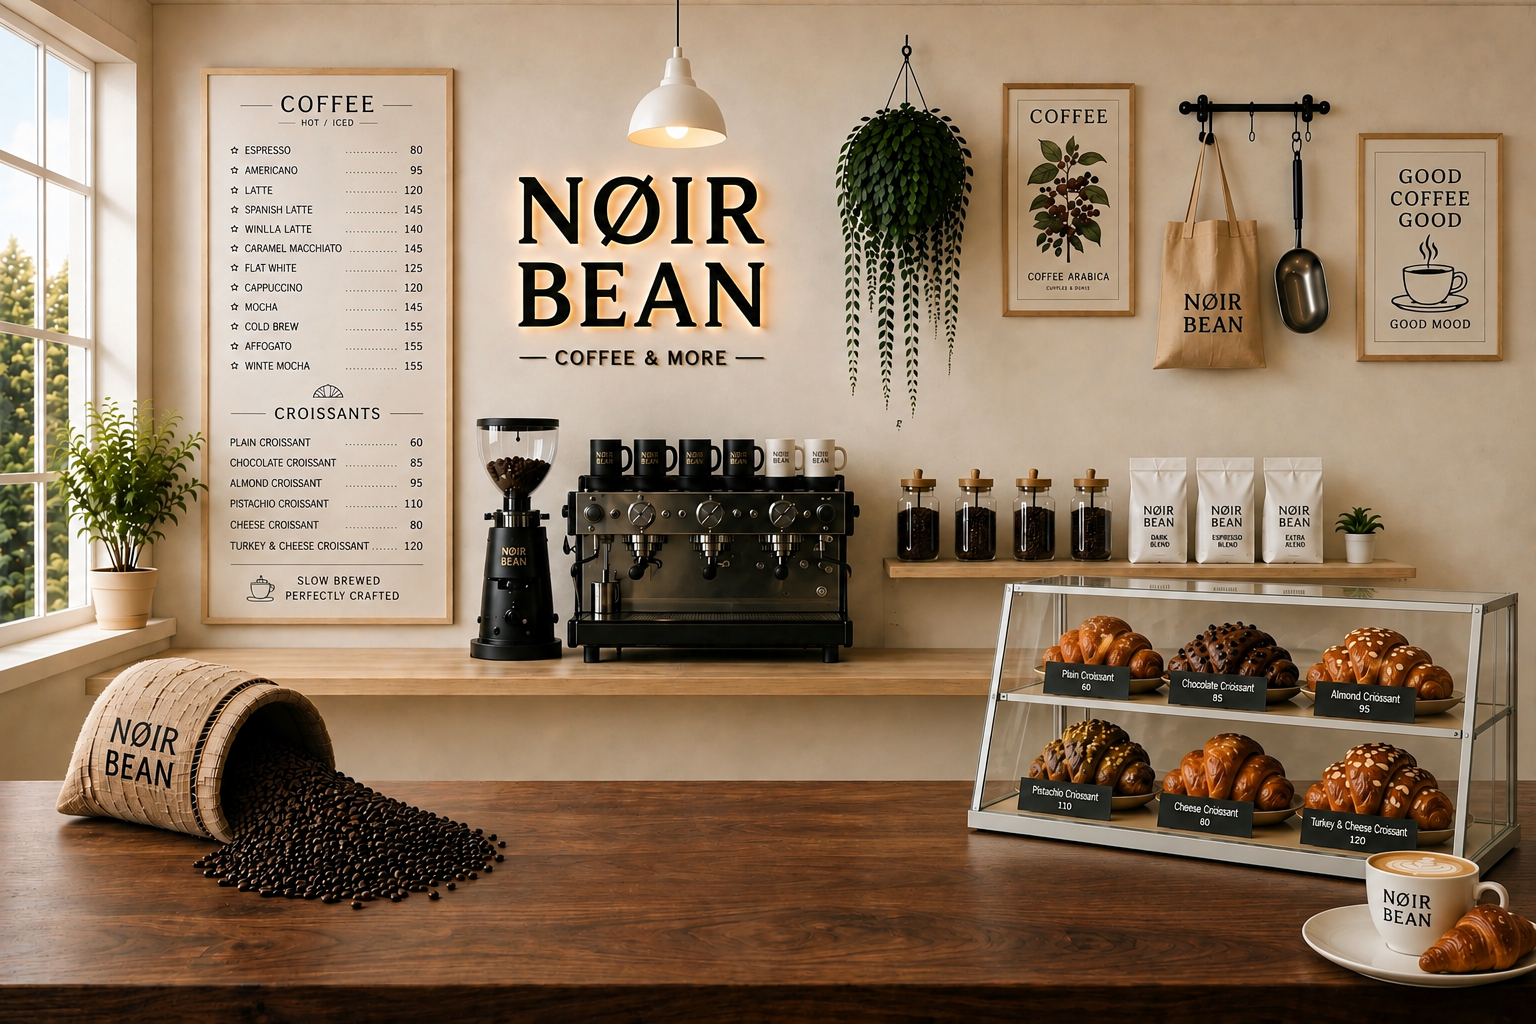
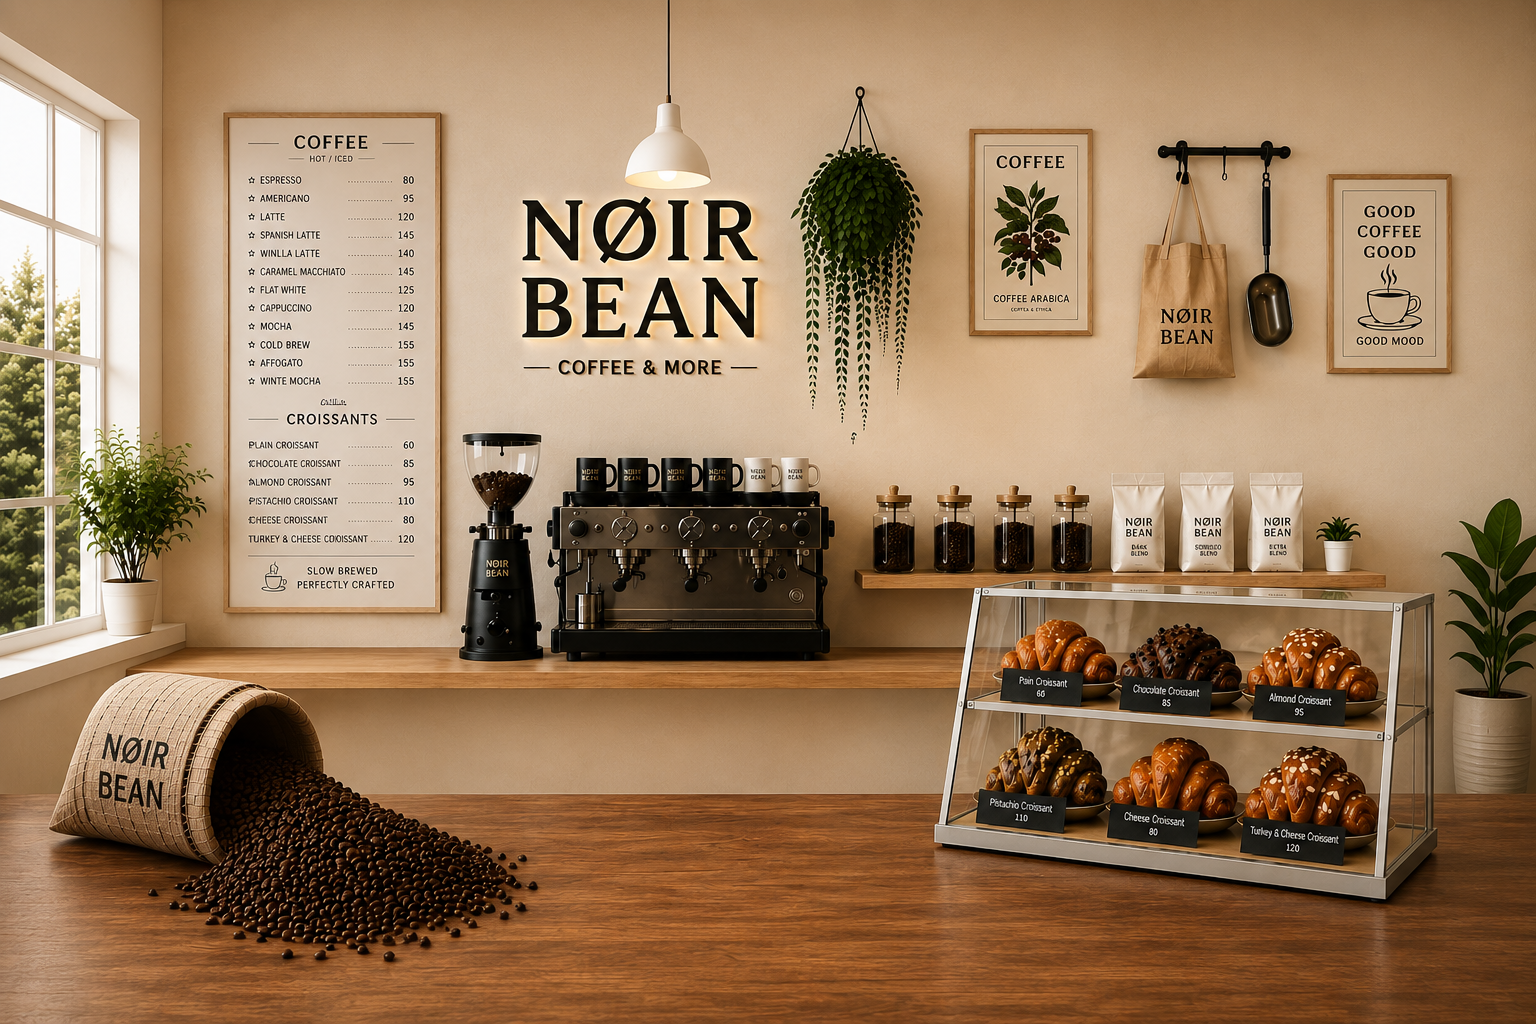
update hero background

diff --git a/components/Hero.tsx b/components/Hero.tsx
@@ -331,16 +331,16 @@ export default function Hero() {
       >
         <div
           ref={background}
-          className="absolute -inset-4"
+          className="absolute inset-0"
         >
           <Image
-            src="/coffe.png"
+            src="/Coffe.png"
             alt=""
             fill
             priority
-            quality={70}
+            quality={85}
             sizes="100vw"
-            className="object-cover object-[76%_center] md:object-center"
+            className="object-cover object-[54%_center] sm:object-[56%_center] md:object-center"
           />
         </div>
 
@@ -431,24 +431,6 @@ export default function Hero() {
             </div>
           </div>
         </div>
-
-        {/* Mobile only: reveal the sack that already exists inside coffe.png.
-            It stays behind the cup, under the Taste the menu area.
-            Desktop is untouched because this layer is hidden from md upward. */}
-        <div
-          aria-hidden
-          className="pointer-events-none absolute bottom-[7svh] left-[-18px] z-[14] h-[250px] w-[245px] overflow-hidden md:hidden"
-          style={{
-            backgroundImage: "url('/coffe.png')",
-            backgroundRepeat: "no-repeat",
-            backgroundSize: "760px auto",
-            backgroundPosition: "left bottom",
-            WebkitMaskImage:
-              "radial-gradient(ellipse 88% 86% at 48% 57%, #000 54%, transparent 100%)",
-            maskImage:
-              "radial-gradient(ellipse 88% 86% at 48% 57%, #000 54%, transparent 100%)",
-          }}
-        />
 
         <div
           ref={cupGhost}

diff --git a/components/hero-text.tsx b/components/hero-text.tsx
@@ -157,7 +157,7 @@ export default function Hero() {
         ref={background}
         className="absolute -inset-5 bg-cover bg-center bg-no-repeat"
         style={{
-          backgroundImage: "url('/coffe.png')",
+          backgroundImage: "url('/Coffe.png')",
         }}
       />
 
